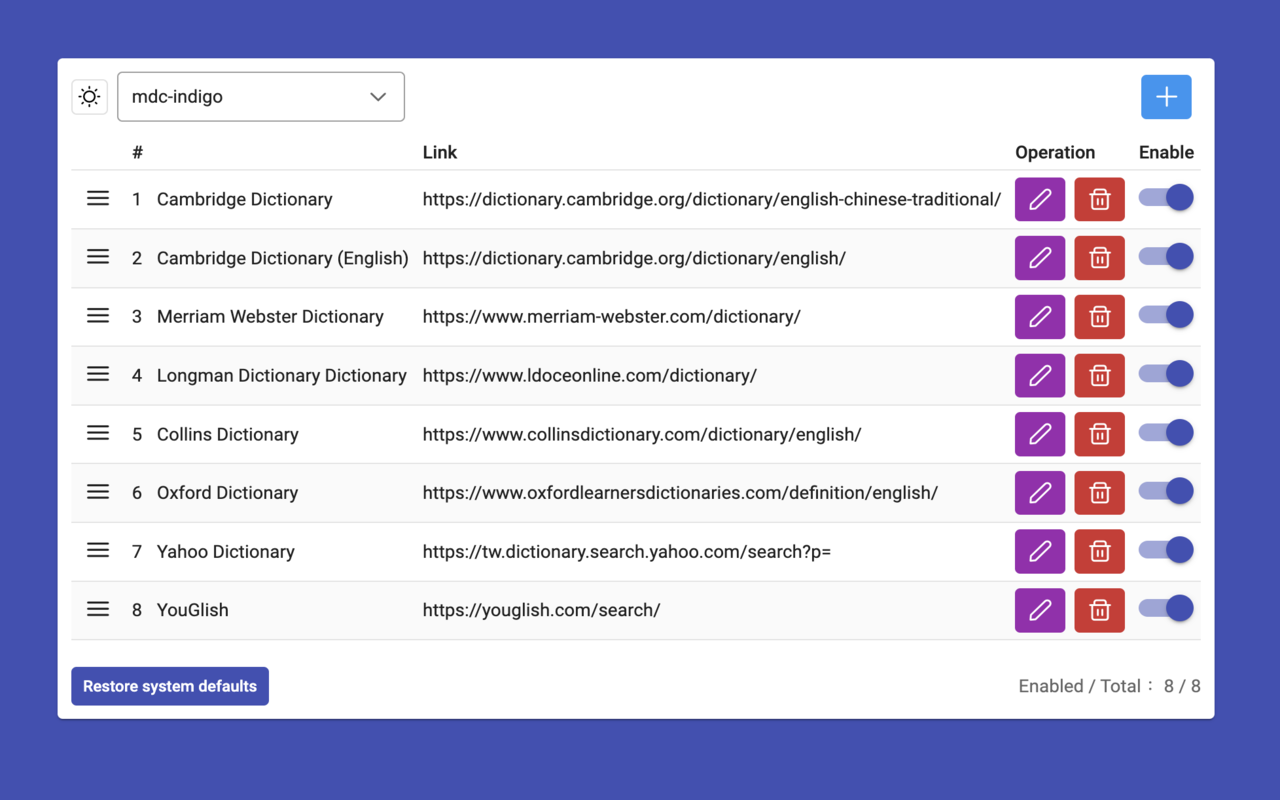
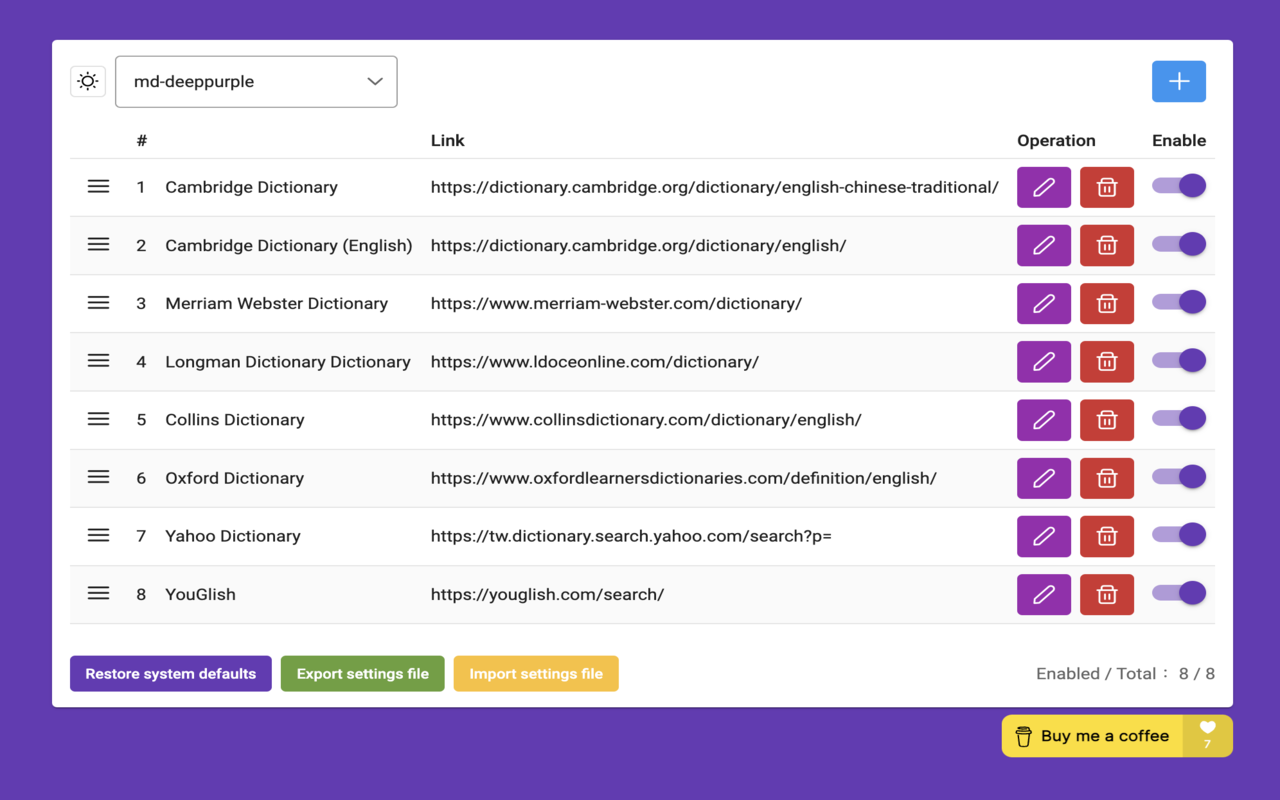
調整圖片

diff --git a/README.md b/README.md
@@ -59,8 +59,22 @@
 ### 0.0.5 版
 
 送審日期：2024/3/31
-通過日期：送審中
+通過日期：2024/3/31
 
 - 修正選單的背景顏色問題
 - 增加英文語系
 - 增加 buy me a coffee 按鈕
+
+### 0.0.6 版
+
+送審日期：2024/3/31
+通過日期：2024/3/31
+
+- 移除 home 頁面 & options_page setting
+
+### 0.0.7 版
+
+送審日期：2024/3/31
+通過日期：2024/3/31
+
+- 新增匯出匯出功能
